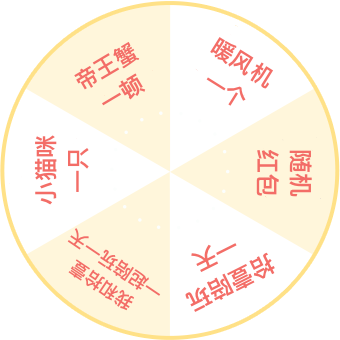
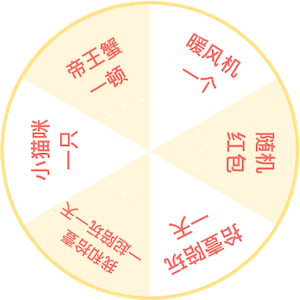
fix 适配手机

diff --git a/play/index.html b/play/index.html
@@ -24,22 +24,16 @@
 	}
 	 .g-lottery-case {
 		margin: 0 auto;
-		overflow: hidden;
+		/*overflow: hidden;*/
+		margin-top: 30px;
+
 	}
-	
-	 .g-lottery-case .g-left h2 {
-		font-size: 20px;
-		line-height: 32px;
-		font-weight: normal;
-		margin-left: 20px;
-	}
-	
 
 	.g-lottery-box {
-		width: 400px;
-		height: 400px;
+		width: 360px;
+		height: 360px;
 		margin: 0 auto;
-		/*position: relative;*/
+		position: relative;
 		background: url(img/lottery/ly-plate-c.gif) no-repeat;
 	}
 	
@@ -53,8 +47,8 @@
 	}
 	
 	.g-lottery-box .playbtn {
-		width: 186px;
-		height: 186px;
+		width: 146px;
+		height: 146px;
 		position: absolute;
 		top: 77px;
 		left: 77px;
@@ -72,20 +66,19 @@
 </head>
 
 <body>
+<div  class="g-content_bottom">
+	<h2>~卿羽大转盘~</h2>
+</div>
 <div class="g-content">
 	<div class="g-lottery-case">
-		<div class="g-left">
 			<div class="g-lottery-box">
 				<div class="g-lottery-img">
 					<a class="playbtn" href="javascript:;" title="开始抽奖"></a>
 				</div>
 			</div>
-		</div>
 	</div>
 </div>
-<div  class="g-content_bottom">
-	<h2>~卿羽大转盘~</h2>
-</div>
+
 
 			
 <script src="js/jquery-1.8.3.min.js" type="text/javascript" charset="utf-8"></script>
@@ -146,7 +139,7 @@
 				animateTo: angle + 1440, //让它根据得出来的结果加上1440度旋转
 				callback: function() {
 					isture = false; // 标志为 执行完毕
-					alert(text);
+					alert(text + ' / 请今明两天联系拾壹领取奖品');
 				}
 			});
 		};
